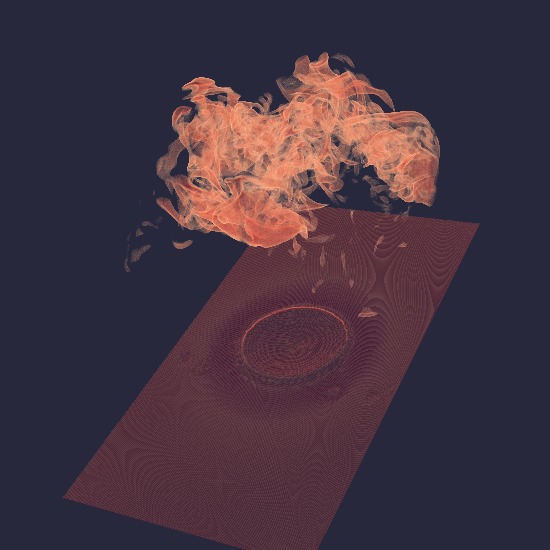
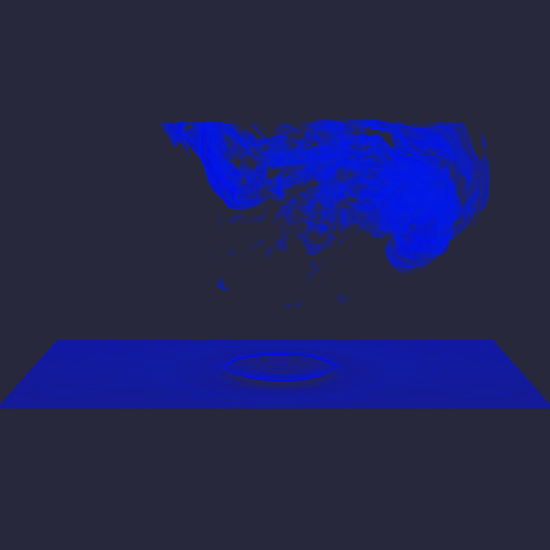
README

diff --git a/VTKscript.py b/VTKscript.py
@@ -85,44 +85,31 @@ def createImage(index):
     colorTransferFunction = vtk.vtkColorTransferFunction()
     colorTransferFunction.SetColorSpaceToDiverging()
     # colorTransferFunction.SetHSVWrap(False)
-    colorTransferFunction.AddRGBPoint(dMin, 0.23, 0.298, 0.85)
+    colorTransferFunction.AddRGBPoint(dMin, 0.03, 0.198, 0.85)
     # colorTransferFunction.AddRGBPoint(dMin+(dMax-dMin)/3, 0.865,0.865,0.865)
-    colorTransferFunction.AddRGBPoint(dMax, 0.705, 0.02, 0.15)
+    colorTransferFunction.AddRGBPoint(dMax, 0.05, 0.02, 0.15)
 
     
     volumeGradientOpacity = vtk.vtkPiecewiseFunction()
     volumeGradientOpacity.AddPoint(dMin, 0)
     volumeGradientOpacity.AddPoint(dMin+(dMax-dMin)*0.9,  0.5)
     volumeGradientOpacity.AddPoint(dMax, 1.0)
-
-    # The property describes how the data will look.
     volumeProperty = vtk.vtkVolumeProperty()
     volumeProperty.SetColor(colorTransferFunction)
     volumeProperty.SetScalarOpacity(opacityTransferFunction)
     volumeProperty.SetGradientOpacity(volumeGradientOpacity)
     volumeProperty.SetInterpolationTypeToLinear()
-    # volumeProperty.ShadeOn()
 
-    # The mapper / ray cast function know how to render the data.
+    # Render data
     volumeMapper = vtk.vtkGPUVolumeRayCastMapper()
     volumeMapper.SetInputConnection(reader.GetOutputPort())
     volumeMapper.SetBlendModeToComposite()
 
-    # The volume holds the mapper and the property and
-    # can be used to position/orient the volume.
+    # Position/orient volume
     volume = vtk.vtkVolume()
     volume.SetMapper(volumeMapper)
     volume.SetProperty(volumeProperty)
     aRenderer.AddActor(volume)
-
-    # Actors are added to the renderer.
-    # aRenderer.AddActor(outline)
-    # aRenderer.AddActor(timeIndex)
-
-    # It is convenient to create an initial view of the data. The
-    # FocalPoint and Position form a vector direction. Later on
-    # (ResetCamera() method) this vector is used to position the camera
-    # to look at the data in this direction.
     aCamera = vtk.vtkCamera()
     aCamera.SetViewUp(0, 1, 0)
     aCamera.SetPosition(0, 0, 1) 
@@ -141,12 +128,12 @@ def createImage(index):
     aCamera.Elevation(10)
     aRenderer.ResetCameraClippingRange()
 
-    # Interact with the data.
+    # Interactive!
     renWin.Render()
     iren.Initialize()
     iren.Start()
 
-    # screenshot code:
+    # Screenshot when hide interactive mode
     w2if = vtk.vtkWindowToImageFilter()
     w2if.SetInput(renWin)
     w2if.Update()

diff --git a/README.md b/README.md
@@ -3,10 +3,11 @@ Course in Scientific Visualization and Virtual Reality (UvA 2020)
 
 
 ## Dependencies
+```pip3 install -r requirements.txt```
 
-import vtk
-import vtk.util.numpy_support as VN
-import numpy as np
-import re
-from pathlib import Path
-from multiprocessing import Pool
+## Running
+```python3 VTKscript.py```
+
+## Authors
+* *Sam Verhezen*
+* *Rebecca Davidsson*
